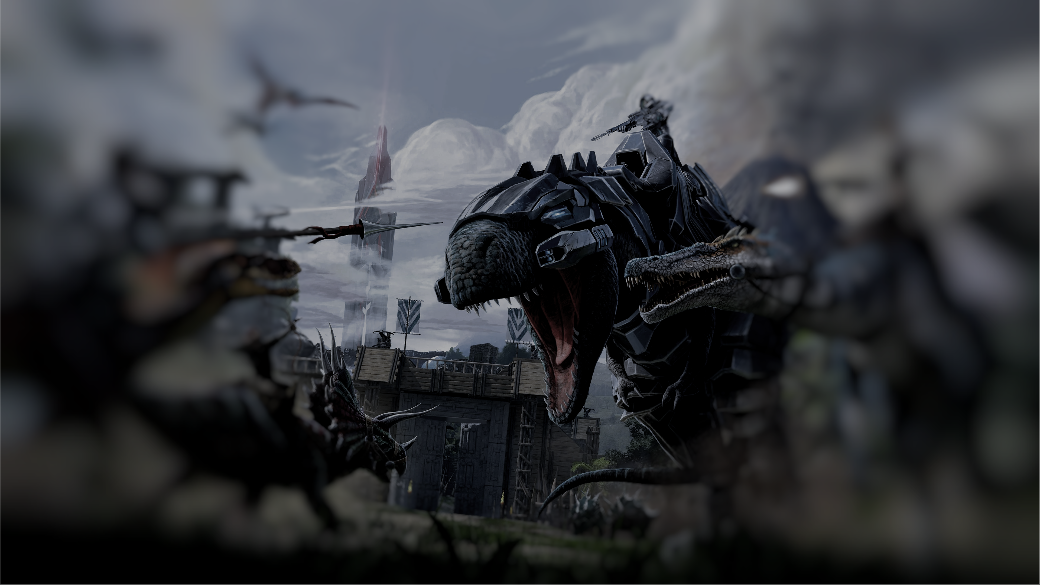
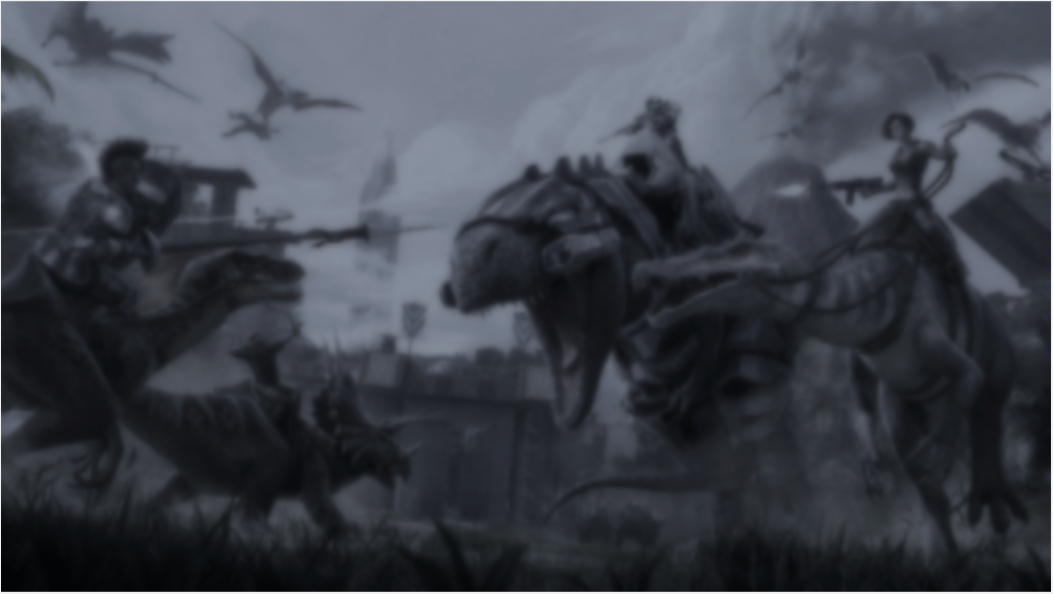
ark also resz+képszerk.

diff --git a/ark.html b/ark.html
@@ -6,91 +6,69 @@
     <meta name="viewport" content="width=device-width, initial-scale=1.0">
     <title>ARK: Survival Evolved</title>
     <link rel="stylesheet" href="style.css">
+    <script src="a.js"></script>
     <style>
-        h1{
-            font-size: 20pt;
-            text-shadow: 3px black;
-        }
         body {
-            margin-left: 500px;
-            margin-right: 500px;
-            background-image: url(images/balint/arkhatterblur.png);
+            background-image: url(images/balint/arkhatter.png);
             background-repeat: no-repeat;
-            color: aliceblue;
-            background-size: cover;
+            background-size: 150%;
         }
-        div {
-            box-shadow: black;
-        }
-    .rightcol {
-        float: right;
-    }
-  
-  
-  
-
-
-
-/* Position text in the middle of the page/image */
-.header {
-  background-color: rgb(0,0,0); /* Fallback color */
-  background-color: rgba(0,0,0, 0.4); /* Black w/opacity/see-through */
-  color: white;
-  font-weight: bold;
-  border: 3px solid #f1f1f1;
-  position: absolute;
-  top: 50%;
-  left: 50%;
-  transform: translate(-50%, -50%);
-  z-index: 2;
-  width: 55%;
-  padding: 5px;
-  text-align: left;
-}
-a {
-    color: #66c0f4;
-    text-decoration: none;
-}
-.rightcol img {
-    height: 151px;
-    width: 324px;
-}
-.rightcol {
-    float: right;
-}
-.leftcol {
-    float: left;
-}
     </style>
 </head>
-<body>
-
-
-  
-    <div class="header">
-        <h1>ARK: Survival Evolved</h1>
-        <div class="leftcol">
-            <iframe width="560" height="315" src="https://www.youtube.com/embed/5fIAPcVdZO8" title="YouTube video player" frameborder="0" allow="accelerometer; autoplay; clipboard-write; encrypted-media; gyroscope; picture-in-picture" allowfullscreen></iframe>
-        </div>
-            <div class="rightcol">
-                <img src="images/balint/ark.png" alt="header?">
-                <div class="snippet"><br>
-                    Stranded on the shores of a mysterious island, you must <br> learn to survive. 
-                    Use skill & cunning to kill, tame,<br> breed, & ride the Dinosaurs. 
-                     Developed by Studio Wildcard,<br> Instinct Games 
-                     
-                 </div>
-                 <div class="about"> <br>
-
-                    Last ratings: <a target="_blank" href="https://store.steampowered.com/app/346110/ARK_Survival_Evolved/#app_reviews_hash">Very positive</a> <br>
-                    All ratings: <a target="_blank" href="https://store.steampowered.com/app/346110/ARK_Survival_Evolved/#app_reviews_hash">Very positive</a> <br>
-                    <br>
-                    Megjelenés dátuma: 2017. aug. 27.
-                    <a target="_blank" href="https://store.steampowered.com/app/346110/ARK_Survival_Evolved/">forrás</a>
-                 </div>
+<body class="arkbg">
+    <div class="topnav" id="topnav">
+        <a href="#home" class="active">Home</a>
+        <a href="#news">News</a>
+        <a href="#contact">Contact</a>
+        <div class="dropdown">
+            <p class="dropbtn" id="dropBtn">Jatekok<img class="rotate" onclick="toggleDrop()" id="dropbtnbtn" src="arrow.png" alt="Balfasz a js dev"></button>
+            <div id="dropdown-content" class="hide">
+                <a href="#">Link 1</a>
+                <a href="#">Link 2</a>
+                <a href="#">Link 3</a>
             </div>
-           
+        </div>
+        <a href="#about">About</a>
+        <a href="javascript:void(0);" class="icon" onclick="responsive()">&#9776;</a>
     </div>
-
+    <div class="main">
+        <div class="header">
+            <h1>ARK: Survival Evolved</h1>
+            <div class="leftcol">
+                <iframe src="https://www.youtube.com/embed/5fIAPcVdZO8?autoplay=1" title="YouTube video player" frameborder="0" allow="accelerometer; autoplay; clipboard-write; encrypted-media; gyroscope; picture-in-picture" allowfullscreen></iframe>
+            </div>
+                <div class="rightcol">
+                    <img src="images/balint/ark.png" alt="header?">
+                    <div class="snippet"><br>
+                        Stranded on the shores of a mysterious island, you <br>
+                        must learn to survive. Use skill & cunning to kill,<br> tame,
+                        breed, & ride the Dinosaurs.Developed by<br> 
+                        Studio Wildcard, Instinct Games
+        
+                    </div>
+                    <div class="about"> <br>
+                        Last ratings: <a target="_blank" href="https://store.steampowered.com/app/346110/ARK_Survival_Evolved/#app_reviews_hash">Very positive</a> <br>
+                        All ratings: <a target="_blank" href="https://store.steampowered.com/app/346110/ARK_Survival_Evolved/#app_reviews_hash">Very positive</a> <br>
+                        <br>
+                        Date of release: 2017. aug. 27.
+                        <a target="_blank" href="https://store.steampowered.com/app/346110/ARK_Survival_Evolved/">forrás</a>
+                    </div>
+                </div>
+        
+        </div>
+        <div class="below">
+            <h1>About the game</h1>
+            <hr>
+            <div class="coloumn">
+                Use your cunning and resources to kill or tame & breed the leviathan dinosaurs and other primeval creatures roaming the land, and team up with or prey on hundreds of other players to survive, dominate... and escape! <br>
+                <hr>
+                <img class="kepkozep" src="images/balint/TameTrainBreedRide.png" alt="gif"> <br>
+                <hr>
+                Dinosaurs, Creatures, & Breeding! -- over 100+ creatures can be tamed using a challenging capture-&-affinity process, involving weakening a feral creature to knock it unconscious, and then nursing it back to health with appropriate food. Once tamed, you can issue commands to your tames, which it may follow depending on how well you’ve tamed and trained it. Tames, which can continue to level-up and consume food, can also carry Inventory and Equipment such as Armor, carry prey back to your settlement depending on their strength, and larger tames can be ridden and directly controlled! <br>
+                <hr>
+                <img class="kepkozep" src="images/balint/FoodWaterTemp.png" alt="gif2">
+            </div>
+        </div>
+    </div>
 </body>
 </html>
